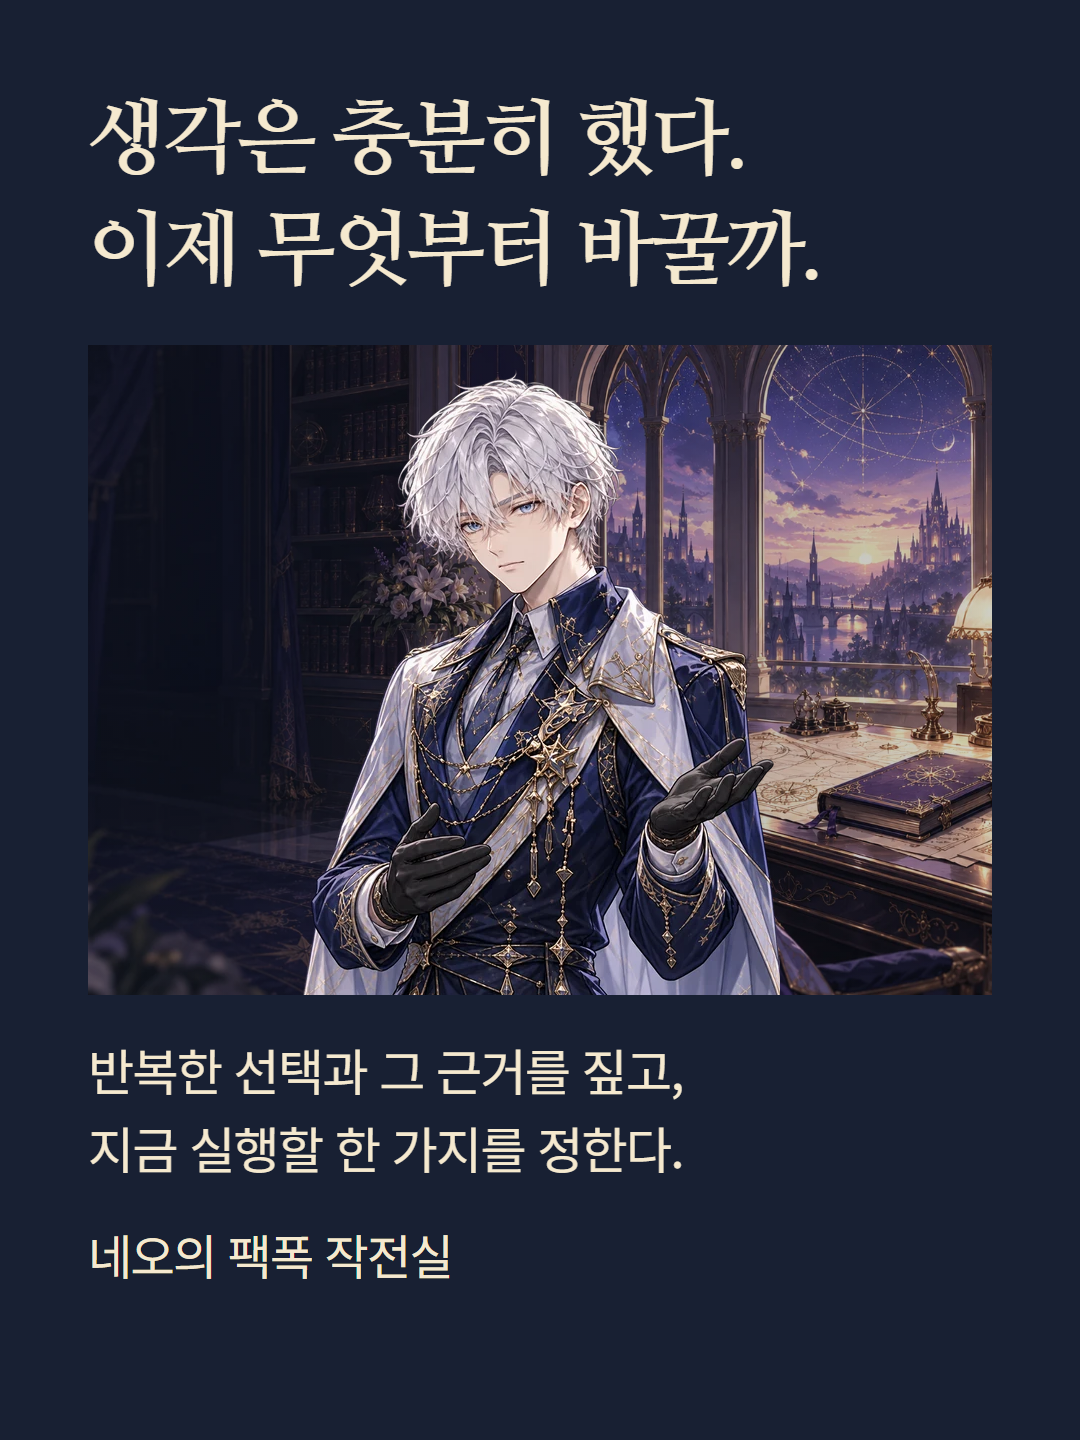
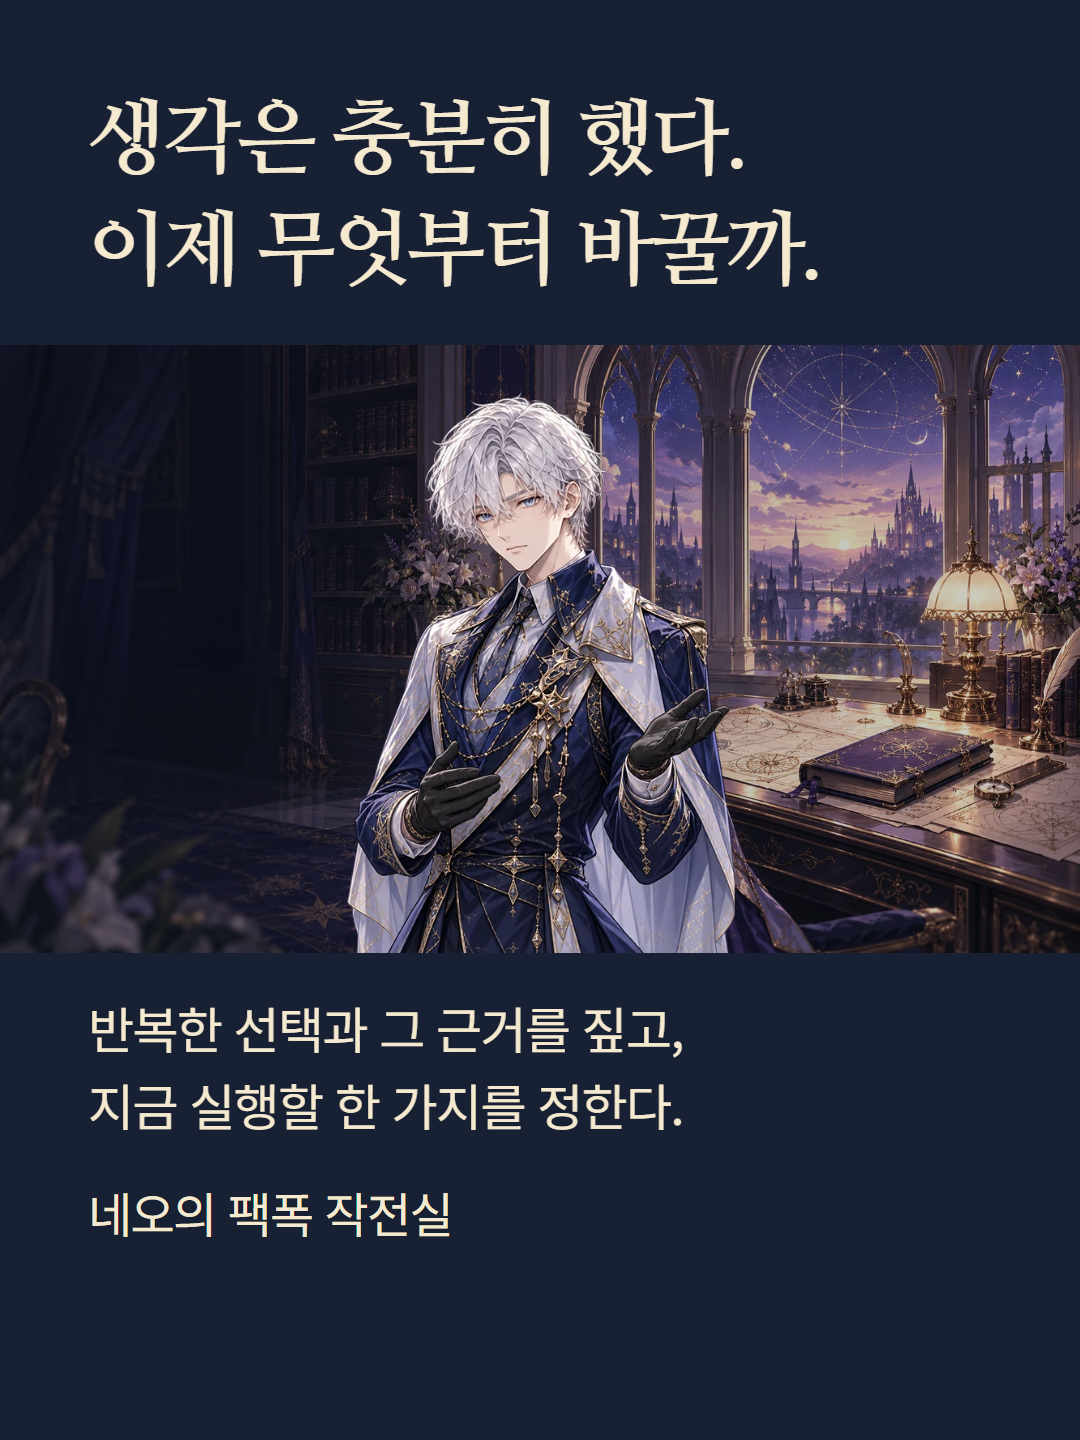
팩폭 작전실 상세 첫 장: 방 배경과 네오를 자르지 않고 원본 비율로 합성
- 방 원본을 배경 cover 대신 16:9 이미지로 패널 폭 전체에 깔고, 네오는 그 안에 온전히 세움(같은 틴트 유지)

Changed region(s): [[0.0, 0.2188, 1.0, 0.9062], [0.0, 0.25, 0.0611, 0.3438]]

diff --git a/content/product-details/neo-operation-room/editable-layout.html b/content/product-details/neo-operation-room/editable-layout.html
@@ -1,1 +1,1 @@
-<!doctype html><html lang="ko"><meta charset="utf-8"><link rel="stylesheet" href="/styles/service-intro-fonts.css"><link rel="stylesheet" href="/source/layout.css"><body><section class="panel p1" data-num="1"><h1>생각은 충분히 했다.<br>이제 무엇부터 바꿀까.</h1><div class="hero"><img src="/neo-operation-room/briefing/neo-explain-v1.webp" alt=""></div><p>반복한 선택과 그 근거를 짚고,<br>지금 실행할 한 가지를 정한다.</p><p class="sign">네오의 팩폭 작전실</p></section><section class="panel p2" data-num="2"><h2>“어떻게 될까” 앞에,<br>지금의 상황부터 놓아라.</h2><div class="brief"><section><h3>결정할 일</h3><p>지금 직장을 떠날지,<br>준비를 더 하며 남아 있을지.</p></section><section><h3>반복해서 멈춘 이유</h3><p>정보가 부족한지,<br>다른 사람의 평가가 두려운지.</p></section><section><h3>지켜야 할 현실</h3><p>생활비, 준비 시간, 이미 맡은 일.<br>이번 선택의 조건을 적어라.</p></section></div><p class="note">구체적인 질문에서 시작해<br>판단의 근거와 행동을 함께 읽는다.</p></section><section class="panel p3" data-num="3"><h2>네 가지 지도 중,<br>하나를 골라 읽는다.</h2><dl><div><dt>사주</dt><dd>일간·오행·십성, 대운과 세운.<br>기질과 시기의 관계를 살핀다.</dd></div><div><dt>자미두수</dt><dd>명궁·신궁과 열두 궁의 별 배치.<br>삶의 영역별 힘과 흐름을 읽는다.</dd></div><div><dt>베다점</dt><dd>라그나·달·행성과 다샤.<br>출생의 배치와 시기 주기를 살핀다.</dd></div><div><dt>서양 점성술</dt><dd>태양·달·상승궁과 행성의 각도.<br>감정과 선택의 패턴을 읽는다.</dd></div></dl></section><section class="panel p4" data-num="4"><h2>첫 브리핑에는,<br>판단만 적혀 있지 않다.</h2><ol><li>전선 진단</li><li>긴급 작전</li><li>네오의 판단</li><li>타고난 성향</li><li>주제 분석</li><li>시기와 전략</li><li>어긋난 자리와 근거</li><li>금지와 7일 작전</li><li>현실 점검 질문</li><li>사자 휘장과 마무리</li></ol><p class="note">내용이 있는 챕터만 표시된다.<br>관계 전용 목차는 선택 조건에 따라 추가.</p></section><section class="panel p5" data-num="5"><h2>네 사정이 다르다면,<br>네오에게 다시 말해라.</h2><p>현실 점검 질문에 답하거나<br>지금의 상황을 더해 수정 작전을 요청한다.</p><div class="revision"><p>전황 재판단 · 무엇이 달라졌는지</p><p>판정과 근거 · 왜 그렇게 읽었는지</p><p>전선 조정 · 다른 행동과 그 이유</p><p>만나면 좋을 사람 · 보완할 역할</p><p>30일 전략 · 이번 주 첫걸음</p><p>금지와 휘장 · 마지막 한마디</p></div><p class="note">처음 브리핑과 수정 명령서는 구분된다.<br>화면의 남은 이용 범위 안에서 요청하며,<br>수정 결과에 있는 항목만 펼쳐진다.</p></section><section class="panel p6" data-num="6"><h2>연애가 질문이라면,<br>두 사람의 근거를 함께.</h2><p>연애·재회 주제에서 상대 정보를 더하면,<br>선택한 체계의 두 사람 자료를 대조한다.</p><div class="pair"><h3>서로를 보는 눈</h3><p>나의 관점과 상대의 관점을 나눈다.</p><h3>갈등 패턴</h3><p>어디서 시작해 어떻게 커지는지.</p><h3>관계 작전</h3><p>지금의 관계 단계에서 할 일과 멈출 일.</p></div><p class="note">궁 교차는 자미두수처럼 해당 근거가<br>있는 경우에만 읽는다. 점수와 표시 축도<br>체계마다 다르며 성공 확률이 아니다.</p></section><section class="panel p7" data-num="7"><h2>“준비가 끝나면”을,<br>확인할 수 있는 행동으로.</h2><p class="label">이해를 돕기 위한 편집 예시</p><blockquote>“준비가 덜 됐다”는 말만으로는<br>언제 움직일지 정할 수 없다.<br><br>지원할 곳 한 군데를 골라라.<br>요구하는 역량과 네 경험을 대조하고,<br>빈칸 하나를 이번 주 과제로 정해.</blockquote><div class="order"><p>기준을 적는다 → 작은 실행 → 다시 판단</p></div><p class="note">실제 출생 자료나 고객 결과가 아닌<br>구체적인 행동 조언의 편집 예시다.</p></section><section class="panel p8" data-num="8"><h2>질문, 출생 정보,<br>듣고 싶은 말의 강도.</h2><dl><div><dt>지금의 고민과 분석 방식</dt><dd>주제와 질문을 적고,<br>읽을 체계를 하나 고른다.</dd></div><div><dt>생년월일 · 성별 · 출생시간</dt><dd>시간을 모르면 미상으로 표시한다.<br>확인할 수 없는 범위는 한계로 남긴다.</dd></div><div><dt>시간대와 선택 상대 정보</dt><dd>베다점·점성술은 시간대가 필요하다.<br>궁합을 선택했다면 상대 정보도 확인.</dd></div><div><dt>팩폭 강도</dt><dd>편하게 듣거나 더 직설적으로.<br>말투의 강도가 정확도 순위는 아니다.</dd></div></dl></section><section class="panel p9" data-num="9"><h2>상담 기록과 특전은,<br>제공 범위를 나눠<br>확인해라.</h2><div class="scope"><h3>상담에서 이어지는 일</h3><p>저장된 브리핑을 다시 읽고,<br>남은 범위 안에서 현실 점검을 반영한다.</p></div><div class="scope"><h3>별도 조건을 확인할 일</h3><p>PDF와 네오의 편지, 전략서는<br>각 화면의 해금 조건을 먼저 확인한다.</p></div><p class="note">상담 한 번으로 모든 특전이<br>자동으로 열리는 것은 아니다.</p><p class="note">다른 체계로 새로 분석하는 상담은<br>다시 이용 조건을 확인한다.</p></section><section class="panel p10" data-num="10"><h2>네 편에서 짚겠다.<br>선택은 네 손에 남겨두고.</h2><img class="closing" src="/neo-operation-room/briefing/neo-explain-v1.webp" alt=""><p>가능성을 사실처럼 단정하지 않고,<br>지금 고칠 수 있는 행동부터.</p><p class="note">네오는 서비스 캐릭터다.<br>상담 문장은 AI가 작성하며,<br>사람이 직접 답하는 상담은 아니다.</p><p class="sign">네오의 팩폭 작전실</p></section></body></html>
+<!doctype html><html lang="ko"><meta charset="utf-8"><link rel="stylesheet" href="/styles/service-intro-fonts.css"><link rel="stylesheet" href="/source/layout.css"><body><section class="panel p1" data-num="1"><h1>생각은 충분히 했다.<br>이제 무엇부터 바꿀까.</h1><div class="hero"><img class="room" src="/neo-operation-room/strategy-room-v1.webp" alt=""><img class="neo" src="/neo-operation-room/briefing/neo-explain-v1.webp" alt=""></div><p>반복한 선택과 그 근거를 짚고,<br>지금 실행할 한 가지를 정한다.</p><p class="sign">네오의 팩폭 작전실</p></section><section class="panel p2" data-num="2"><h2>“어떻게 될까” 앞에,<br>지금의 상황부터 놓아라.</h2><div class="brief"><section><h3>결정할 일</h3><p>지금 직장을 떠날지,<br>준비를 더 하며 남아 있을지.</p></section><section><h3>반복해서 멈춘 이유</h3><p>정보가 부족한지,<br>다른 사람의 평가가 두려운지.</p></section><section><h3>지켜야 할 현실</h3><p>생활비, 준비 시간, 이미 맡은 일.<br>이번 선택의 조건을 적어라.</p></section></div><p class="note">구체적인 질문에서 시작해<br>판단의 근거와 행동을 함께 읽는다.</p></section><section class="panel p3" data-num="3"><h2>네 가지 지도 중,<br>하나를 골라 읽는다.</h2><dl><div><dt>사주</dt><dd>일간·오행·십성, 대운과 세운.<br>기질과 시기의 관계를 살핀다.</dd></div><div><dt>자미두수</dt><dd>명궁·신궁과 열두 궁의 별 배치.<br>삶의 영역별 힘과 흐름을 읽는다.</dd></div><div><dt>베다점</dt><dd>라그나·달·행성과 다샤.<br>출생의 배치와 시기 주기를 살핀다.</dd></div><div><dt>서양 점성술</dt><dd>태양·달·상승궁과 행성의 각도.<br>감정과 선택의 패턴을 읽는다.</dd></div></dl></section><section class="panel p4" data-num="4"><h2>첫 브리핑에는,<br>판단만 적혀 있지 않다.</h2><ol><li>전선 진단</li><li>긴급 작전</li><li>네오의 판단</li><li>타고난 성향</li><li>주제 분석</li><li>시기와 전략</li><li>어긋난 자리와 근거</li><li>금지와 7일 작전</li><li>현실 점검 질문</li><li>사자 휘장과 마무리</li></ol><p class="note">내용이 있는 챕터만 표시된다.<br>관계 전용 목차는 선택 조건에 따라 추가.</p></section><section class="panel p5" data-num="5"><h2>네 사정이 다르다면,<br>네오에게 다시 말해라.</h2><p>현실 점검 질문에 답하거나<br>지금의 상황을 더해 수정 작전을 요청한다.</p><div class="revision"><p>전황 재판단 · 무엇이 달라졌는지</p><p>판정과 근거 · 왜 그렇게 읽었는지</p><p>전선 조정 · 다른 행동과 그 이유</p><p>만나면 좋을 사람 · 보완할 역할</p><p>30일 전략 · 이번 주 첫걸음</p><p>금지와 휘장 · 마지막 한마디</p></div><p class="note">처음 브리핑과 수정 명령서는 구분된다.<br>화면의 남은 이용 범위 안에서 요청하며,<br>수정 결과에 있는 항목만 펼쳐진다.</p></section><section class="panel p6" data-num="6"><h2>연애가 질문이라면,<br>두 사람의 근거를 함께.</h2><p>연애·재회 주제에서 상대 정보를 더하면,<br>선택한 체계의 두 사람 자료를 대조한다.</p><div class="pair"><h3>서로를 보는 눈</h3><p>나의 관점과 상대의 관점을 나눈다.</p><h3>갈등 패턴</h3><p>어디서 시작해 어떻게 커지는지.</p><h3>관계 작전</h3><p>지금의 관계 단계에서 할 일과 멈출 일.</p></div><p class="note">궁 교차는 자미두수처럼 해당 근거가<br>있는 경우에만 읽는다. 점수와 표시 축도<br>체계마다 다르며 성공 확률이 아니다.</p></section><section class="panel p7" data-num="7"><h2>“준비가 끝나면”을,<br>확인할 수 있는 행동으로.</h2><p class="label">이해를 돕기 위한 편집 예시</p><blockquote>“준비가 덜 됐다”는 말만으로는<br>언제 움직일지 정할 수 없다.<br><br>지원할 곳 한 군데를 골라라.<br>요구하는 역량과 네 경험을 대조하고,<br>빈칸 하나를 이번 주 과제로 정해.</blockquote><div class="order"><p>기준을 적는다 → 작은 실행 → 다시 판단</p></div><p class="note">실제 출생 자료나 고객 결과가 아닌<br>구체적인 행동 조언의 편집 예시다.</p></section><section class="panel p8" data-num="8"><h2>질문, 출생 정보,<br>듣고 싶은 말의 강도.</h2><dl><div><dt>지금의 고민과 분석 방식</dt><dd>주제와 질문을 적고,<br>읽을 체계를 하나 고른다.</dd></div><div><dt>생년월일 · 성별 · 출생시간</dt><dd>시간을 모르면 미상으로 표시한다.<br>확인할 수 없는 범위는 한계로 남긴다.</dd></div><div><dt>시간대와 선택 상대 정보</dt><dd>베다점·점성술은 시간대가 필요하다.<br>궁합을 선택했다면 상대 정보도 확인.</dd></div><div><dt>팩폭 강도</dt><dd>편하게 듣거나 더 직설적으로.<br>말투의 강도가 정확도 순위는 아니다.</dd></div></dl></section><section class="panel p9" data-num="9"><h2>상담 기록과 특전은,<br>제공 범위를 나눠<br>확인해라.</h2><div class="scope"><h3>상담에서 이어지는 일</h3><p>저장된 브리핑을 다시 읽고,<br>남은 범위 안에서 현실 점검을 반영한다.</p></div><div class="scope"><h3>별도 조건을 확인할 일</h3><p>PDF와 네오의 편지, 전략서는<br>각 화면의 해금 조건을 먼저 확인한다.</p></div><p class="note">상담 한 번으로 모든 특전이<br>자동으로 열리는 것은 아니다.</p><p class="note">다른 체계로 새로 분석하는 상담은<br>다시 이용 조건을 확인한다.</p></section><section class="panel p10" data-num="10"><h2>네 편에서 짚겠다.<br>선택은 네 손에 남겨두고.</h2><img class="closing" src="/neo-operation-room/briefing/neo-explain-v1.webp" alt=""><p>가능성을 사실처럼 단정하지 않고,<br>지금 고칠 수 있는 행동부터.</p><p class="note">네오는 서비스 캐릭터다.<br>상담 문장은 AI가 작성하며,<br>사람이 직접 답하는 상담은 아니다.</p><p class="sign">네오의 팩폭 작전실</p></section></body></html>

diff --git a/content/product-details/neo-operation-room/layout.css b/content/product-details/neo-operation-room/layout.css
@@ -1,1 +1,1 @@
-*{box-sizing:border-box}body{margin:0;background:#ebe8dd;color:#263146;font-family:'Yeongnyangi Noto',sans-serif}.panel{width:1080px;height:1440px;padding:84px 88px;position:relative;overflow:hidden;background:#ebe8dd}h1,h2,h3,p{margin:0;word-break:keep-all}h1,h2{font-family:'Yeongnyangi Myeongjo',serif;font-size:82px;line-height:1.35;letter-spacing:-3px;margin-bottom:40px}h3{font-size:50px;line-height:1.4;margin-bottom:14px}p{font-size:50px;line-height:1.55;letter-spacing:-1.6px}.note,.label,.sign{font-size:48px;line-height:1.5}.note{color:#535c68;margin-top:30px}.label{margin-bottom:32px}.sign{margin-top:32px}.p1{background:#182033;color:#f5e9cf}.hero{height:650px;margin:20px 0 36px;background:linear-gradient(90deg,#17203366,#17203333),url('/neo-operation-room/strategy-room-v1.webp') center/cover;overflow:hidden}.hero img{height:720px;display:block;margin:0 auto}.brief section{padding:27px 0;border-top:1px solid #9da4a8}.brief p{font-size:48px}dl{margin:38px 0 0}dl div{padding:18px 0;border-top:1px solid #9da4a8}dt{font-size:50px;line-height:1.4;font-weight:700}dd{font-size:48px;line-height:1.5;margin:10px 0 0;letter-spacing:-1.6px;word-break:keep-all}.p4{background:#dce1df}ol{margin:30px 0 24px;padding-left:60px}li{font-size:48px;line-height:1.4;padding:5px 0;word-break:keep-all;border-bottom:1px solid #a5abaa}.revision{margin:35px 0}.revision p{font-size:48px;line-height:1.5;padding:12px 0;border-bottom:1px solid #9da4a8}.pair{margin:32px 0;padding:30px;background:#d7ddd9}.pair h3:not(:first-child){margin-top:34px}.pair p{font-size:48px}.p7{background:#283347;color:#f3ead6}.p7 .note{color:#d0d8dd}blockquote{font-family:'Yeongnyangi Myeongjo',serif;font-size:51px;line-height:1.65;margin:38px 0;letter-spacing:-1px;word-break:keep-all}.order{border-block:1px solid #9aa5ae;padding:30px 0}.order p{font-size:48px}.scope{padding:27px 0;border-top:1px solid #9da4a8}.scope p{font-size:48px}.p10{background:#182033;color:#f5e9cf}.p10 .note{color:#d0d8dd}.closing{display:block;height:500px;margin:25px auto}.p10 p{margin-top:28px}
+*{box-sizing:border-box}body{margin:0;background:#ebe8dd;color:#263146;font-family:'Yeongnyangi Noto',sans-serif}.panel{width:1080px;height:1440px;padding:84px 88px;position:relative;overflow:hidden;background:#ebe8dd}h1,h2,h3,p{margin:0;word-break:keep-all}h1,h2{font-family:'Yeongnyangi Myeongjo',serif;font-size:82px;line-height:1.35;letter-spacing:-3px;margin-bottom:40px}h3{font-size:50px;line-height:1.4;margin-bottom:14px}p{font-size:50px;line-height:1.55;letter-spacing:-1.6px}.note,.label,.sign{font-size:48px;line-height:1.5}.note{color:#535c68;margin-top:30px}.label{margin-bottom:32px}.sign{margin-top:32px}.p1{background:#182033;color:#f5e9cf}.hero{position:relative;width:1080px;margin:20px -88px 36px;overflow:hidden}.hero::before{content:"";position:absolute;inset:0;z-index:1;background:linear-gradient(90deg,#17203366,#17203333)}.hero .room{display:block;width:1080px;height:auto}.hero .neo{position:absolute;z-index:2;bottom:0;left:50%;height:96%;width:auto;transform:translateX(-50%)}.brief section{padding:27px 0;border-top:1px solid #9da4a8}.brief p{font-size:48px}dl{margin:38px 0 0}dl div{padding:18px 0;border-top:1px solid #9da4a8}dt{font-size:50px;line-height:1.4;font-weight:700}dd{font-size:48px;line-height:1.5;margin:10px 0 0;letter-spacing:-1.6px;word-break:keep-all}.p4{background:#dce1df}ol{margin:30px 0 24px;padding-left:60px}li{font-size:48px;line-height:1.4;padding:5px 0;word-break:keep-all;border-bottom:1px solid #a5abaa}.revision{margin:35px 0}.revision p{font-size:48px;line-height:1.5;padding:12px 0;border-bottom:1px solid #9da4a8}.pair{margin:32px 0;padding:30px;background:#d7ddd9}.pair h3:not(:first-child){margin-top:34px}.pair p{font-size:48px}.p7{background:#283347;color:#f3ead6}.p7 .note{color:#d0d8dd}blockquote{font-family:'Yeongnyangi Myeongjo',serif;font-size:51px;line-height:1.65;margin:38px 0;letter-spacing:-1px;word-break:keep-all}.order{border-block:1px solid #9aa5ae;padding:30px 0}.order p{font-size:48px}.scope{padding:27px 0;border-top:1px solid #9da4a8}.scope p{font-size:48px}.p10{background:#182033;color:#f5e9cf}.p10 .note{color:#d0d8dd}.closing{display:block;height:500px;margin:25px auto}.p10 p{margin-top:28px}
